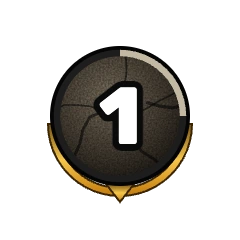
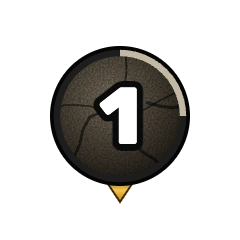
Forsaken Roster: category badge on the character art, badge rings show exactly one quarter per category
- Character pages show the badge in the top-right of the main art (not on the skin preview), with the category names on hover
- Removed the gold half-ring under each medallion so the lit ring is the only circle: 1 = a quarter, 2 = half, 3 = three-quarters, 4 = full; badge images re-rendered (?v=2)

Changed region(s): [[0.175, 0.4958, 0.8167, 0.8458]]

diff --git a/forsaken/fk.js b/forsaken/fk.js
@@ -87,7 +87,7 @@
     var nc = catsOf(c).length, multi = nc > 1;
     return '<a class="fk-card' + (multi ? ' fk-multi' : '') + '" href="' + BASE + '/' + c.id + '" data-id="' + c.id + '" data-side="' + c.side + '" data-google-vignette="false" style="' + vars(c) + ';--i:' + (i || 0) + '">' +
       '<img src="' + esc(c.card || c.image) + '"' + (c.cards ? ' srcset="' + c.cards.map(function (w) { return '/forsaken/img/card/' + c.id + '-' + w + '.webp ' + w + 'w'; }).join(', ') + '" sizes="(max-width: 600px) 31vw, 200px"' : '') + ' alt="" width="440" height="550" loading="lazy" decoding="async">' +
-      '<span class="fk-mo" aria-hidden="true"></span>' + (nc ? '<img class="fk-badge" src="/forsaken/img/ui-multi-' + Math.min(nc, 4) + '.webp" alt="" width="240" height="240" decoding="async"><span class="fk-sr">, in ' + nc + (nc === 1 ? ' category' : ' categories') + '</span>' : '') + '<span class="fk-card-n">' + esc(c.name) + '</span></a>';
+      '<span class="fk-mo" aria-hidden="true"></span>' + (nc ? '<img class="fk-badge" src="/forsaken/img/ui-multi-' + Math.min(nc, 4) + '.webp?v=2" alt="" width="240" height="240" decoding="async"><span class="fk-sr">, in ' + nc + (nc === 1 ? ' category' : ' categories') + '</span>' : '') + '<span class="fk-card-n">' + esc(c.name) + '</span></a>';
   }
 
   function groupsFor(tab) { return tab === 'killer' ? ((data && data.killerClasses) || []) : CLS; }
@@ -341,7 +341,7 @@
       '<a class="fk-btn fk-arrow" href="' + BASE + '/' + next.id + '" data-go="' + next.id + '" data-dir="1" aria-label="Next: ' + esc(next.name) + '" data-google-vignette="false">&rsaquo;</a>' +
       '<a class="fk-x" href="' + BASE + '" data-back="1" aria-label="Back to the roster" title="Back to the roster" data-google-vignette="false">Roster</a></div>' +
       '<div class="fk-hero" style="' + vars(c) + '">' +
-      '<div class="fk-art fk-rv" style="--i:0"><img src="' + esc(c.image) + '" alt="' + esc(c.name) + '" width="900" height="900" decoding="async"><span class="fk-art-glow" aria-hidden="true"></span></div>' +
+      '<div class="fk-art fk-rv" style="--i:0"><img src="' + esc(c.image) + '" alt="' + esc(c.name) + '" width="900" height="900" decoding="async"><span class="fk-art-glow" aria-hidden="true"></span>' + (catsOf(c).length ? '<img class="fk-art-badge" src="/forsaken/img/ui-multi-' + Math.min(catsOf(c).length, 4) + '.webp?v=2" alt="In ' + catsOf(c).length + (catsOf(c).length === 1 ? ' category' : ' categories') + '" title="' + esc(catsOf(c).join(', ')) + '" width="240" height="240" decoding="async">' : '') + '</div>' +
       '<div class="fk-side">' +
       '<div class="fk-namebox fk-drawn fk-rv" style="--i:1"><div class="fk-name">' + nameArt + '</div><div class="fk-tags">' + tags + '</div>' +
       (c.caption ? '<p class="fk-cap">&ldquo;' + esc(c.caption) + '&rdquo;</p>' : '') + '</div>' +

diff --git a/forsaken/roster.html b/forsaken/roster.html
@@ -26,7 +26,7 @@
     </div></div>
     <div id="ug-content" data-layout="wide" data-hdr="title" data-hdr-name="Roster">
 <style>@import url("https://fonts.googleapis.com/css2?family=Rubik:wght@600;700;800&family=Source+Serif+4:ital,opsz,wght@0,8..60,400;0,8..60,600;1,8..60,400&display=swap");</style>
-<link rel="stylesheet" href="/forsaken/fk.css?v=20261104t">
+<link rel="stylesheet" href="/forsaken/fk.css?v=20261104u">
 <div class="fk" id="fk" data-base="/forsaken/roster" data-src="/forsaken/forsaken-preview.json?v=4">
 <div class="fk-grid-view">
 <div class="fk-shell fk-drawn">
@@ -38,7 +38,7 @@
 <div class="fk-detail" tabindex="-1" role="region" aria-label="Character" hidden></div>
 <div class="fk-pulse" aria-hidden="true"></div>
 </div>
-<script src="/forsaken/fk.js?v=20261104t" defer></script>
+<script src="/forsaken/fk.js?v=20261104u" defer></script>
 
           <div class="ad-slot" style="max-width:600px;width:95%;margin:32px auto 8px"><ins class="adsbygoogle" style="display:block" data-ad-client="ca-pub-7017245771068026" data-ad-slot="9010982209" data-ad-format="auto" data-full-width-responsive="true"></ins><script>(adsbygoogle = window.adsbygoogle || []).push({});</script></div>
     </div>

diff --git a/forsaken/fk.css b/forsaken/fk.css
@@ -80,6 +80,8 @@ html.fk-on #ug-hamburger,html.fk-on #ug-info-btn,html.fk-on #ug-sound-btn,html.f
 .fk-art{position:relative;aspect-ratio:1/1;overflow:hidden;background:linear-gradient(160deg,var(--c1,#222),var(--c2,#000))}
 .fk-art img{position:absolute;inset:0;width:100%!important;height:100%!important;max-width:none!important;margin:0!important;object-fit:cover;object-position:50% 28%}
 .fk-art::after{content:"";position:absolute;inset:0;border:9px solid transparent;border-image:var(--fk-frame) 30 / 9px stretch;pointer-events:none}
+.fk-art .fk-art-badge{position:absolute;inset:auto;top:10px;right:10px;z-index:3;width:24%!important;height:auto!important;max-width:150px!important;margin:0!important;object-fit:contain;filter:drop-shadow(0 3px 5px rgba(0,0,0,.8))}
+.fk-reveal .fk-art img.fk-art-badge{animation:fk-in .5s cubic-bezier(.2,.7,.2,1) .35s both}
 .fk-art-glow{position:absolute;inset:0;background:radial-gradient(60% 50% at 50% 100%,rgba(255,122,26,.55),transparent 70%);mix-blend-mode:screen;opacity:0;pointer-events:none}
 .fk-side{display:flex;flex-direction:column;gap:14px}
 .fk-namebox{padding:16px 16px 14px;text-align:center}
